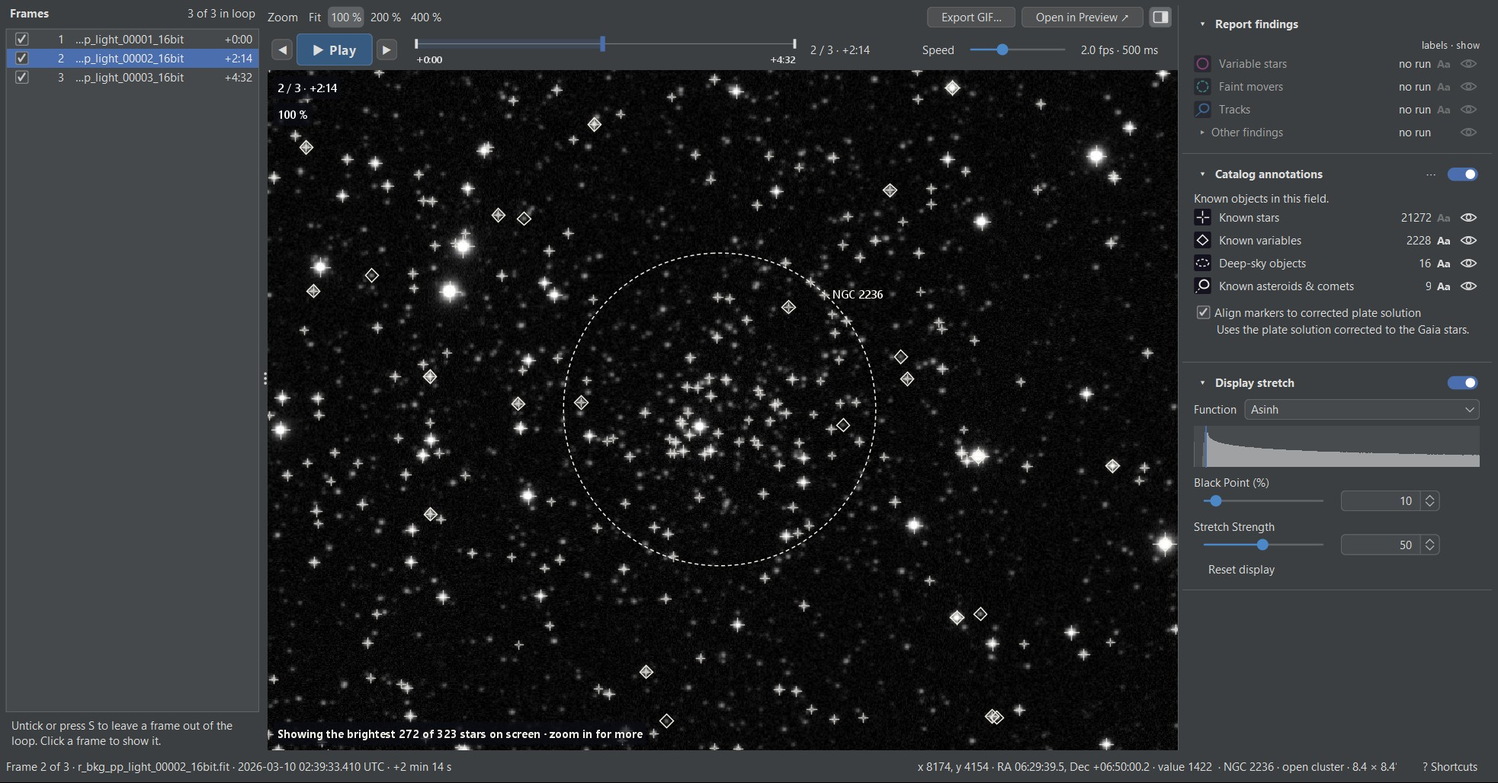
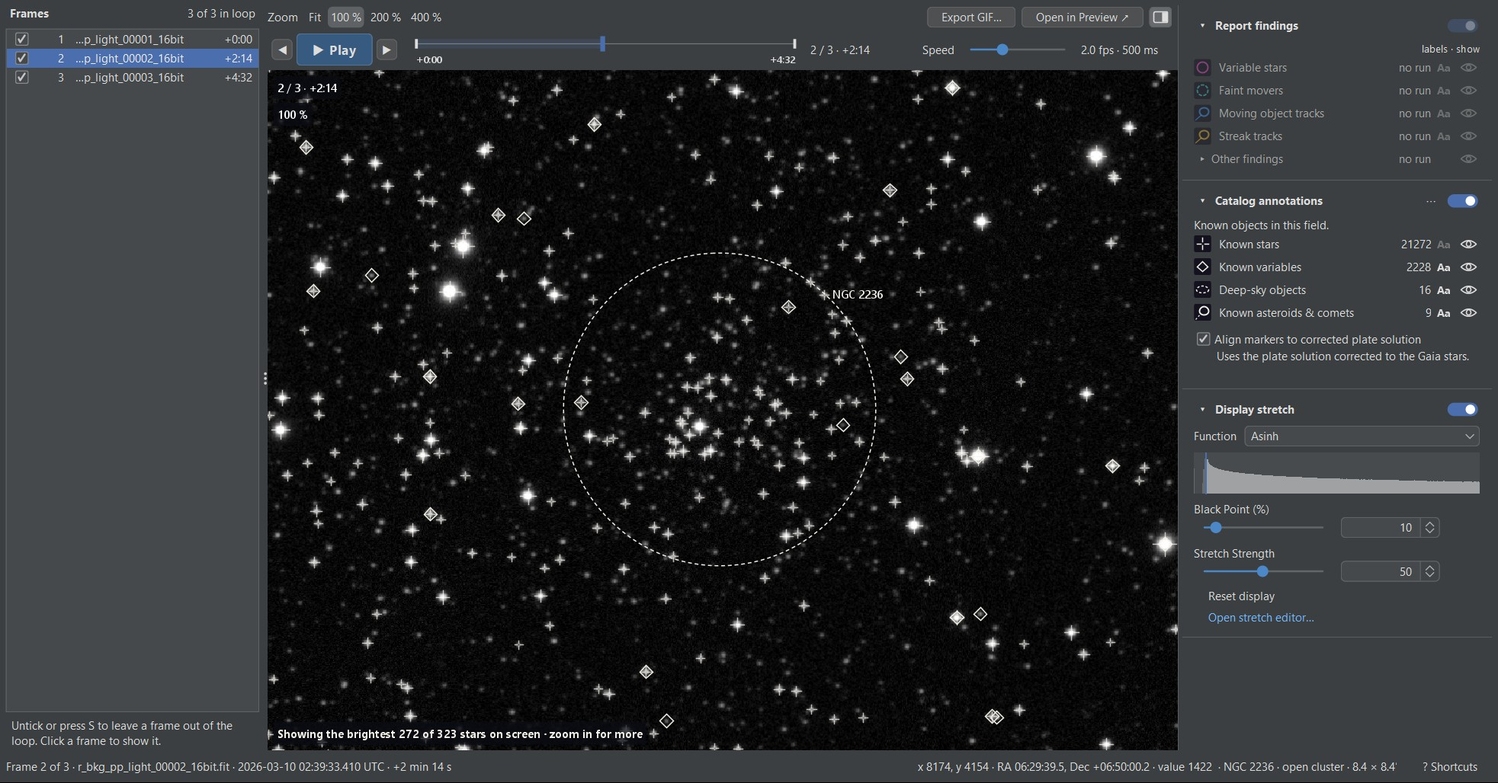
Update docs

Changed region(s): [[0.7761, 0.0, 0.9934, 0.8093]]

diff --git a/MANUAL.md b/MANUAL.md
@@ -241,7 +241,7 @@ If a run finds a very large number of objects, a summary first lists them by kin
 
 ---
 
-After detection, return to **Blink Selected** to check the findings against the actual frame pixels: the side panel's **Report findings** shows the last run's tracks (T), variable candidates (V) and other findings. In **Preview Frame**, **Raw detections** (D) overlays point sources and streaks extracted with the current per-frame settings, and the side panel adds the last full run's findings. **Manual Transient Inspection** shows the run's tracks (T) too. Zoom to 100 % or more to inspect the detected pixels; use the eye switches to compare with the unmarked image. These last-run overlays are available in the current session after a run; importing a folder again does not reconstruct them from its saved report.
+After detection, return to **Blink Selected** to check the findings against the actual frame pixels: the side panel's **Report findings** shows the last run's moving object tracks (T), streak tracks (Shift+T), variable candidates (V) and other findings. In **Preview Frame**, **Raw detections** (D) overlays point sources and streaks extracted with the current per-frame settings, and the side panel adds the last full run's findings. **Manual Transient Inspection** shows the run's findings too. Zoom to 100 % or more to inspect the detected pixels; use the eye switches to compare with the unmarked image. These last-run overlays are available in the current session after a run; importing a folder again does not reconstruct them from its saved report.
 
 ## 4. Reading the report
 
@@ -639,19 +639,19 @@ Select three or more frames in the table and click **Blink Selected** to play th
 - **Zoom**, directly above the image: Fit, 100 %, 200 % and 400 %, or scroll to zoom around the cursor and drag to pan. Double-click switches between fit and 100 %. The view stays on the same spot while the frames change.
 - **Open in Preview ↗** pauses the blink and shows the frame in Preview Frame, to try the detection on it. Both windows stay open: **Blink ↗** in Preview Frame comes back on the frame it shows, without reading the frames again, and plays again if the blink was playing.
 - **The frame list** on the left shows every frame with its time since the first one, and how many are in the loop; the frame on screen is highlighted. Where the interval to the previous frame is more than 1.5 times the usual one, a band says how long the gap was, for example *5 min 17 s gap*. Click a frame to pause and show it. While paused, untick a frame, or press S, to leave a cloudy or trailed frame out of the loop; it is greyed and struck through, and stepping passes over it, but clicking it still shows it. While playing, the ticks are greyed out: pause first, so you change the frame you meant. At least two frames stay in the loop.
-- **Tracks** (T, side panel) draws the latest run's or restored report's tracks, named as in the report (T1, T2… for moving objects, ST1… for streak tracks), with a ring at each measured position in the frame shown. Available findings are shown by default.
+- **Moving object tracks** (T, side panel) and **Streak tracks** (Shift+T) draw the latest run's or restored report's tracks, named as in the report (T1, T2… and ST1, ST2…): a faint line through the whole track, with a ring at the measured position in the frame shown. Available findings are shown by default.
 - **Variable stars** (V, side panel) marks the variable-star candidates from the last **Detect Moving Targets** run with photometry enabled. Magenta rings and V1, V2… follow the report's numbering; solid rings mean high confidence and dashed rings mean possible. Names from the saved VSX catalogue are added when matched. Hover for the name, confidence and measured variation. This overlay also works without a plate solution or sky catalogue, using the measured star positions.
 - **Catalog annotations** (A, side panel) labels the stars, deep-sky objects and variable stars of the field, once the sky catalogue is fetched, and the known asteroids and comets where they are at each frame's time, once those are fetched. **Align markers to corrected plate solution** (C) aligns them, and all coordinates, with the stars (see [Annotate](#annotate-stars-deep-sky-objects-and-variable-stars) and [Known asteroids and comets](#known-asteroids-and-comets)).
 
-**The side panel.** Blink, Preview Frame, Manual Transient Inspection and Show full size have a panel on the right with what is drawn on the frame. Drag its left edge to make it wider, or hide it with the panel button at the end of the toolbar; both are remembered. Its sections fold with the arrow beside their titles:
+**The side panel.** Blink, Preview Frame and Manual Transient Inspection have a panel on the right with what is drawn on the frame. Drag its left edge to make it wider, or hide it with the panel button at the end of the toolbar; both are remembered. Its sections fold with the arrow beside their titles:
 
-- **Report findings**: the latest run's or restored report's findings, one row per layer with its count. **Variable stars** (V), **Faint movers** and **Tracks** (T) have their own rows; **Other findings** unfolds into single streaks and anomalies (S, A), slow-mover candidates (DS), local rescue and activity (LR, LC), and camera-fixed and common-motion groups (FC, CM). The eye shows or hides a layer, and **Aa** its labels; hiding Other findings hides all its rows, which keep their own choices. A row that has nothing to show says why, for example *none in report*.
-- **Catalog annotations** (A): the known objects of the field, once fetched. The switch in the header shows them; the rows choose **Known stars**, **Known variables**, **Deep-sky objects** and **Known asteroids & comets**, each with its count on the frame shown. The **⋯** menu holds **Faintest magnitude…**. **Align markers to corrected plate solution** (C) is here too.
+- **Report findings** (R): the latest run's or restored report's findings, one row per layer with its count. The switch in the header shows or hides them all. **Variable stars** (V), **Faint movers**, **Moving object tracks** (T) and **Streak tracks** (Shift+T) have their own rows; **Other findings** unfolds into single streaks and anomalies (S, A), slow-mover candidates (DS), local rescue and activity (LR, LC), and camera-fixed and common-motion groups (FC, CM). The eye shows or hides a layer, and **Aa** its labels; while Other findings is hidden, its rows are disabled and keep their own choices. A row that has nothing to show says why, for example *none in report*.
+- **Catalog annotations** (A): the known objects of the field, once fetched. The switch in the header shows them, and while it is off the rest of the section is disabled; the rows choose **Known stars**, **Known variables**, **Deep-sky objects** and **Known asteroids & comets**, each with its count on the frame shown. The **⋯** menu holds **Faintest magnitude…**. **Align markers to corrected plate solution** (C) is here too.
 - **Display stretch**: the switch, the function and its two parameters, each with a slider and a number field, shared with the Image Stretch editor. **Reset display** returns the parameters to the function's defaults. A small histogram shows the pixel values of the frame shown: the values the stretch shows as black are drawn darker, and an accent line marks the black point, so you can see how much of the sky is clipped. **Open stretch editor…** opens the [full comparison workspace](#image-stretch) on the frame currently shown, leaving the viewer open.
 
 The swatch beside each row looks like the marks it draws. Findings keep the colours of their report categories; everything already in a catalogue is drawn in off-white, so a white diamond inside a magenta ring reads as a detected variable that is already catalogued. The choices are shared by all viewers, so a layer hidden in Preview Frame is hidden in Blink too, and they are remembered.
 
-Import restores findings from the newest compatible completed report, including individual iterative passes. Blink and Preview Frame show its tracks, variable stars, faint-mover fits and **Other findings** by default. The latter includes single-frame streaks/anomalies, slow-mover references, local rescue/activity and artifact groups, using the report's labels and colours. Measured markers appear only in their measured frames. Dashed squares labelled **ref** are stack or report reference positions, not per-frame detections. New reports store frame identities and full measured positions; older reports may only supply reference markers for tracks and omit variable-star hover details. The status names the restored report. Missing or incompatible report data does not prevent importing images. Restoring these layers does not rerun the full detection.
+Import restores findings from the newest compatible completed report, including individual iterative passes. Blink and Preview Frame show its tracks, variable stars, faint-mover fits and **Other findings** by default. The latter includes single-frame streaks/anomalies, slow-mover references, local rescue/activity and artifact groups, using the report's labels and colours. Every finding with measured positions shows on every frame: vivid where it was measured in the frame shown, and faint in the other frames, where hovering over it names the frame of the session it was measured in. Variable-star candidates are vivid on every frame, since the star is in all of them, and a faint-mover candidate has a vivid ring on each searched frame. Dashed squares labelled **ref** are stack or report reference positions, not per-frame detections, and look the same on every frame. New reports store frame identities and full measured positions; older reports may only supply reference markers for tracks and omit variable-star hover details. The status names the restored report. Missing or incompatible report data does not prevent importing images. Restoring these layers does not rerun the full detection.
 
 ![Selecting a Blink GIF region around comet Africano](docs/images/manual/ui-blink-gif.png)
 
@@ -667,13 +667,14 @@ Runs the source detection on the selected frame with the current settings and sh
 
 To try the per-frame settings on the frame itself, use **Detection Sigma**, **Grow Sigma (Hysteresis)** and **Min Detection Pixels** under **Trial parameters** in the side panel's **Raw detections** section:
 - Click the arrows, or click into a field, type a value and press Enter; Esc discards a typed value. Enter, Esc or a click on the frame gives the keys back to the window.
-- The frame is detected again a moment after the change, and the detections are switched on.
+- The frame is detected again a moment after the change.
+- While the **Raw detections** switch (D) is off, the section is folded and these controls are disabled; they keep their values for when it is on again.
 - These are trial values. A field that differs from the saved Detection Settings has an amber outline and shows the saved value under it, and the section's header says **Not saved**. **Save to settings** copies only the fields you edited to Detection Settings; changes made elsewhere to other fields are kept. Saved changes are unsaved on the Detection Settings tab until you use **Save** there. The usual rules keep paired thresholds in order.
 - **Revert** returns to the saved values. Closing discards unsaved trials; reopening starts with the current Detection Settings.
 - Text that is not a valid value is outlined in red, a note says what to enter, and the frame keeps the last valid value.
 - While a job runs, the fields, Revert and Save to settings are locked, like the Detection Settings tab. An open Blink window does not lock them.
 
-After a full detection, the side panel's **Tracks** (T) draws that run's tracks as Blink does, and with variable-star photometry **Variable stars** (V) draws its candidates, with the same labels and hover details as Blink. They are the positions that run measured: changing the single-frame preview settings does not change them, and showing them detects nothing again. Run the full detection again to update them. A run that ends while Preview Frame is open makes its tracks available there at once.
+After a full detection, the side panel's **Moving object tracks** (T) and **Streak tracks** (Shift+T) draw that run's tracks as Blink does, and with variable-star photometry **Variable stars** (V) draws its candidates, with the same labels and hover details as Blink. They are the positions that run measured: changing the single-frame preview settings does not change them, and showing them detects nothing again. Run the full detection again to update them. A run that ends while Preview Frame is open makes its tracks available there at once.
 
 Preview Frame shows the normal detection only; the faint-streak search runs in Detect Moving Targets.
 
@@ -681,11 +682,11 @@ Preview Frame shows the normal detection only; the faint-streak search runs in D
 
 ![Manual Transient Inspection with trial thresholds in the side panel and the captured master-mask settings above the comet frame](docs/images/manual/ui-inspection.png)
 
-Runs the detection on all frames of the session (not only the selected ones) and shows, frame by frame, every detection left after the star mask: the candidates for moving objects, before they are linked into tracks. The three per-frame thresholds can be tried in the side panel's **Raw detections** section without rebuilding the master mask; only the frame on show is re-detected, and **Save to settings** copies the edited values. Edits to other per-frame extraction and filtering settings take effect when a frame is shown again. If the master settings change while the window is open, it says so and keeps the reference, including its jitter radius, until you reopen it. Useful to judge the noise, or to find a faint object by eye that did not form a track. Above, at 200 %, the comet is outlined using the current trial settings. The frames stay in memory until you close the window. After a full detection on the session, the side panel's **Tracks** (T) draws that run's tracks over these frames, as in Blink.
+Runs the detection on all frames of the session (not only the selected ones) and shows, frame by frame, every detection left after the star mask: the candidates for moving objects, before they are linked into tracks. The three per-frame thresholds can be tried in the side panel's **Raw detections** section without rebuilding the master mask; only the frame on show is re-detected, and **Save to settings** copies the edited values. Edits to other per-frame extraction and filtering settings take effect when a frame is shown again. If the master settings change while the window is open, it says so and keeps the reference, including its jitter radius, until you reopen it. Useful to judge the noise, or to find a faint object by eye that did not form a track. Above, at 200 %, the comet is outlined using the current trial settings. The frames stay in memory until you close the window. After a full detection on the session, or when its report is restored, the side panel's **Report findings** shows that run's findings over these frames, as in Preview Frame and Blink.
 
 Manual Transient Inspection uses the normal detection only; the faint-streak search runs in Detect Moving Targets.
 
-Both windows, and **Show full size** in the Image Stretch editor, work like the blink window: the same stretch as the Image Stretch editor, the same zoom (Fit, 100 %, 200 %, 400 %, scroll to zoom, drag to pan, double-click), and the same one-line status bar: the frame and its time since the first frame on the left, and on the right, under the cursor, the pixel position, on a plate-solved frame RA and Dec, and the value. The **Raw detections** switch (D) hides the markers to see the frame underneath. From 100 % zoom the detected pixels are tinted too. When there are too many detections on screen to tell apart, the markers are left out until you zoom in. Esc closes the window.
+Both windows work like the blink window: the same stretch as the Image Stretch editor, the same zoom (Fit, 100 %, 200 %, 400 %, scroll to zoom, drag to pan, double-click), and the same one-line status bar: the frame and its time since the first frame on the left, and on the right, under the cursor, the pixel position, on a plate-solved frame RA and Dec, and the value. The **Raw detections** switch (D) hides the markers to see the frame underneath. From 100 % zoom the detected pixels are tinted too. When there are too many detections on screen to tell apart, the markers are left out until you zoom in. Esc closes the window.
 
 ### Annotate: stars, deep-sky objects and variable stars
 
@@ -704,7 +705,7 @@ The detection report uses the catalogue too, when it was fetched before **Detect
 
 The fetch runs in the background, so you can keep working. The status bar shows each step and how long it has taken. The stars take longest, about 20 to 30 seconds for a 4° × 3° field to magnitude 15; each magnitude deeper roughly doubles the stars and the wait. Meanwhile the button reads **Cancel Sky Catalogue**. The catalogue is saved next to the frames as `sky_catalogue.json` and comes back by itself when you import the folder again. Click the button again to fetch a fresh one, for example after changing the star depth. The **2 Astrometry** status shows what is loaded; its tooltip gives the details, and says why if a service did not answer (what did arrive is kept).
 
-In every viewer (Blink, Preview Frame, Manual Transient Inspection and Show full size), **Catalog annotations** (A) in the side panel draws the catalogue on the frame, all in off-white: crosses for stars (larger for brighter stars), diamonds for variable stars and dashed outlines for deep-sky objects, with their size and orientation. Its rows choose which of these are shown, and whether the asteroids and comets are (see [Known asteroids and comets](#known-asteroids-and-comets)). The status bar and a tooltip beside the pointer name the object under the cursor, even when its label is hidden to reduce clutter: above *NGC 2236 · open cluster · 8.4 × 8.4′*, or for a variable star for example *V0623 Mon · LB · 13.30–14.60 V*. When there are too many marks on screen to tell apart, only the brightest stars and variables and the largest deep-sky objects are drawn, and a note says so: zoom in to see more. Names and magnitudes are written next to the marks once few enough are on screen; the long survey names of many variables (such as *Gaia DR3 3131…*) only when you zoom further in.
+In every viewer (Blink, Preview Frame and Manual Transient Inspection), **Catalog annotations** (A) in the side panel draws the catalogue on the frame, all in off-white: crosses for stars (larger for brighter stars), diamonds for variable stars and dashed outlines for deep-sky objects, with their size and orientation. Its rows choose which of these are shown, and whether the asteroids and comets are (see [Known asteroids and comets](#known-asteroids-and-comets)). The status bar and a tooltip beside the pointer name the object under the cursor, even when its label is hidden to reduce clutter: above *NGC 2236 · open cluster · 8.4 × 8.4′*, or for a variable star for example *V0623 Mon · LB · 13.30–14.60 V*. When there are too many marks on screen to tell apart, only the brightest stars and variables and the largest deep-sky objects are drawn, and a note says so: zoom in to see more. Names and magnitudes are written next to the marks once few enough are on screen; the long survey names of many variables (such as *Gaia DR3 3131…*) only when you zoom further in.
 
 Each row's **Aa** hides or shows its names and magnitudes while keeping the markers and hover identification; star labels are off by default. **Faintest magnitude…** in the section's **⋯** menu independently limits stars (Gaia G, or V for named stars) and catalogued variables (their maximum brightness in the catalogue's band). Smaller numbers show only brighter objects; 99 means no limit. Unknown magnitudes and deep-sky objects remain visible. The limits are remembered for subsequently opened viewers; viewers already open keep their own limits. Density thinning still applies. The controls affect only the viewer, not catalogue downloads, measured variable candidates, detection or exported reports.
 
@@ -768,7 +769,7 @@ When a field has few bright stars, SpacePixels fetches fainter Gaia stars for th
 
 Open **Image Stretch…** under **3 Inspect**, or **Open stretch editor…** in a viewer's **Display stretch** section. The editor is a separate resizable window that stays open alongside the viewers. A viewer opens it on the frame currently shown; Main opens it on the selected frame, or the first frame when none is selected. Opening it again brings the same editor forward. Previous/Next navigates the editor without changing the Main table selection or Auto-Tune's frame pool.
 
-The editor compares the original linear frame and the stretched image, with linked zoom/pan, histograms and clipping percentages. The function, parameter sliders and numeric fields change the display immediately in Blink, Preview Frame, Manual Transient Inspection and **Show full size**. Changes in those viewers update the editor too. **Reset to Defaults** restores the selected function's parameters; **Close** or **Esc** keeps your stretch settings and releases the editor's preview images. Importing a different session closes the editor. Detection always uses the original linear data; report images retain their separate stretch under Detection Settings → Report Visualization.
+The editor compares the original linear frame and the stretched image, with linked zoom/pan, histograms and clipping percentages. The function, parameter sliders and numeric fields change the display immediately in Blink, Preview Frame and Manual Transient Inspection. Changes in those viewers update the editor too. **Reset to Defaults** restores the selected function's parameters; closing the window or **Esc** keeps your stretch settings and releases the editor's preview images. Importing a different session closes the editor. Detection always uses the original linear data; report images retain their separate stretch under Detection Settings → Report Visualization.
 
 **Stretch display** switches between the selected stretch and a linear view. Unticking it disables the function and parameters without resetting them; ticking it restores the same stretch. The shared settings are remembered between sessions. Minimum parameter values still apply the selected algorithm; the checkbox provides the linear view. With stretch off, both editor previews show the linear image.
 
@@ -780,9 +781,7 @@ The editor compares the original linear frame and the stretched image, with link
 
 The editor previews its own current frame with the shared stretch. While it is being drawn, the line above it ends in *rendering…*; it always shows the last frame and stretch you chose, however quickly you change them.
 
-![Show full size](docs/images/manual/ui-fullsize.jpg)
-
-**Show full size** opens the frames of the session at full resolution, starting at the editor's current frame, in a window that works like the other viewers: ← → to step, the same zoom and stretch, and the pixel value and RA/Dec under the cursor. Colour frames show in colour, and the status bar gives the frame size.
+**Show in Preview** shows the editor's current frame in [Preview Frame](#preview-frame), at full resolution and with the same stretch; the editor stays open, and a Preview Frame already open keeps its zoom. Colour frames show in colour there, without raw detections, because the detection needs 16-bit monochrome frames.
 
 ### Detect Iteratively (large datasets)
 

diff --git a/HIGH_LEVEL_DESIGN.md b/HIGH_LEVEL_DESIGN.md
@@ -204,7 +204,7 @@ Main tasks:
 - `AutoTuneTask`
 - `StarMaskStackTask`
 - `WriteWcsTask`
-- `GeneratePreviewsTask`, which renders the Image Stretch previews of one frame and returns them to `StretchPreviewRenderer`; full-size sequence viewers load frames through `SequenceViewerFrame` and `BlinkSequence`
+- `GeneratePreviewsTask`, which renders the Image Stretch previews of one frame and returns them to `StretchPreviewRenderer`; the sequence viewers load frames through `SequenceViewerFrame` and `BlinkSequence`
 
 ### `eu.startales.spacepixels.tools`
 
@@ -684,9 +684,9 @@ MainApplicationPanel
 -> TransientInspectionFrame
 ```
 
-**The last run's tracks.** Blink, Preview Frame and Manual Transient Inspection draw the tracks of the session's last Detect Moving Targets run from the same `TrackOverlay` (`ProcessingSession.getTrackOverlay()`). The run hands it over when the engine returns, and the window stores it in the session when the job ends, whatever became of the report (see the jobs section). `SequenceViewerFrame.setTrackOverlay` gives the sequence viewers Blink's **Tracks** row (T) in the side panel's `FindingsSection`: it is disabled with a reason when no track of that run is in the window's frames, and `FrameView` draws the positions the run measured, by file name. Nothing is detected again, and changed settings do not change the overlay. Preview Frame takes the overlays when it opens and again when a run's overlays reach the session (`DetectionSequenceFrame.showLastRun`, from `MainApplicationPanel.showDetectionOverlays`), so a run that ends while it is open shows its tracks. Closing a viewer clears the frame view, which drops the overlay; the overlay itself holds no listeners.
+**The last run's tracks.** Blink, Preview Frame and Manual Transient Inspection draw the tracks of the session's last Detect Moving Targets run from the same `TrackOverlay` (`ProcessingSession.getTrackOverlay()`). The run hands it over when the engine returns, and the window stores it in the session when the job ends, whatever became of the report (see the jobs section). `SequenceViewerFrame.setTrackOverlay` gives the sequence viewers Blink's **Moving object tracks** (T) and **Streak tracks** (Shift+T) rows in the side panel's `FindingsSection`: each is disabled with a reason when no track of its kind in that run is in the window's frames, and `FrameView` draws the positions the run measured, by file name. Nothing is detected again, and changed settings do not change the overlay. Preview Frame and Manual Transient Inspection take all the overlays when they open and again when a run's overlays reach the session (`SequenceViewerFrame.setLastRun`, from `MainApplicationPanel.showDetectionOverlays`), so a run that ends while one is open shows its findings. Closing a viewer clears the frame view, which drops the overlay; the overlay itself holds no listeners.
 
-**Viewer layers.** Which overlay layers are drawn and labelled is one `ViewerLayerState`, owned by the application's `ViewerRegistry`, passed to each viewer it creates and saved under `gui/viewerLayers`. Each viewer keeps its own listener (the state holds listeners weakly) and hands `FrameView` an immutable `ViewerLayerState.Snapshot`, which exports copy. `ViewerLayer` lists the layers; Other findings and Catalog annotations are groups whose children draw only while the group is on. `OverlayStyle` holds the colours, strokes and shapes, used both by `FrameView` and by the swatches of the side panel's `LayerRow`s. Findings use their `FindingCategory` colours, catalogue marks one off-white. The side panel (`ViewerSidePanel`) holds `FindingsSection`, the Catalog annotations section of `SkyAnnotations` and the Display stretch section of `StretchControls`; the Catalog annotations switch decides whether `SkyAnnotations` hands the view any marks.
+**Viewer layers.** Which overlay layers are drawn and labelled is one `ViewerLayerState`, owned by the application's `ViewerRegistry`, passed to each viewer it creates and saved under `gui/viewerLayers`. Each viewer keeps its own listener (the state holds listeners weakly) and hands `FrameView` an immutable `ViewerLayerState.Snapshot`, which exports copy. `ViewerLayer` lists the layers; Report findings and Catalog annotations are groups, with Other findings a group inside Report findings. A child draws, and its switches are enabled, only while every group above it is on (`Snapshot.shows`, `ViewerLayerState.offGroup`); it keeps its own choices meanwhile. `FrameView` draws a finding vivid where it was measured in the frame shown and faint in the other frames of the run. Each finding's faint rings are one shape without those that nearly coincide, so a group measured in almost one place stays one faint ring. References have no frame and look the same on all of them. `OverlayStyle` holds the colours, strokes and shapes, used both by `FrameView` and by the swatches of the side panel's `LayerRow`s. Findings use their `FindingCategory` colours, catalogue marks one off-white. The side panel (`ViewerSidePanel`) holds `FindingsSection`, the Catalog annotations section of `SkyAnnotations` and the Display stretch section of `StretchControls`; the Catalog annotations switch decides whether `SkyAnnotations` hands the view any marks.
 
 ### Report Export Flow
 
@@ -749,7 +749,7 @@ Common-motion filtering has its own switch and runs before local rescue and acti
 
 ### Shared frame viewers
 
-Blink, Preview Frame, Manual Transient Inspection and Show full size share `FrameView`, `StretchControls` and `ViewerSupport`. `SequenceViewerFrame` prepares one frame at a time on a `SwingWorker`, rejects obsolete worker results, and releases listeners on disposal. `BlinkSequence` holds 16-bit frames, histograms and half-size display copies. Stretch controls share their models with the main stretch panel and must detach on disposal. `BlinkGifExport` freezes the included loop, timing, stretch and a private `FrameView` snapshot at admission. Its worker streams cropped frames through staged publication, asking the EDT to render the same viewport and enabled overlays in display-device pixels. Selection guides are a separate mouse layer. Cancellation waits for the encoder to stop; close/reload invalidates later UI delivery. Detection overlays use the last standard-run results, including variable-star positions when available. Preview Frame prepares each frame with `DetectionConfigurationPanel.settingsInUse()`, a copy taken on the EDT just before (`SequenceViewerFrame.preparing`). It takes detached specifications for Detection Sigma, Grow Sigma and Min Detection Pixels (`perFrameDetectionSettings()`), and TrialSettingsControls detects the shown frame again 300 ms after a trial edit. The same controls serve Star Mask Explorer: checked text, Enter/Escape, Reset and selective Apply. Apply uses current settings and normal pair rules, and changes no saved baseline. Trial pair alignment does not mark untouched fields edited. ViewerRegistry pauses every trial window during application jobs; closing stops delayed work and reopening Preview Frame reloads current values. Window keys bound through `ViewerSupport.bind` do not fire while a text field has the focus.
+Blink, Preview Frame and Manual Transient Inspection share `FrameView`, `StretchControls` and `ViewerSupport`. `SequenceViewerFrame` prepares one frame at a time on a `SwingWorker`, rejects obsolete worker results, and releases listeners on disposal. `BlinkSequence` holds 16-bit frames, histograms and half-size display copies. Stretch controls share their models with the main stretch panel and must detach on disposal. `BlinkGifExport` freezes the included loop, timing, stretch and a private `FrameView` snapshot at admission. Its worker streams cropped frames through staged publication, asking the EDT to render the same viewport and enabled overlays in display-device pixels. Selection guides are a separate mouse layer. Cancellation waits for the encoder to stop; close/reload invalidates later UI delivery. Detection overlays use the last standard-run results, including variable-star positions when available. Preview Frame prepares each frame with `DetectionConfigurationPanel.settingsInUse()`, a copy taken on the EDT just before (`SequenceViewerFrame.preparing`). It takes detached specifications for Detection Sigma, Grow Sigma and Min Detection Pixels (`perFrameDetectionSettings()`), and TrialSettingsControls detects the shown frame again 300 ms after a trial edit. The same controls serve Star Mask Explorer: checked text, Enter/Escape, Reset and selective Apply. Apply uses current settings and normal pair rules, and changes no saved baseline. Trial pair alignment does not mark untouched fields edited. ViewerRegistry pauses every trial window during application jobs; closing stops delayed work and reopening Preview Frame reloads current values. Window keys bound through `ViewerSupport.bind` do not fire while a text field has the focus.
 
 The shared **Stretch display** button model selects stretched or full-range linear display, defaults to on, and is saved as `stretch.enabled` in the existing Java preferences node. Off disables the stretch controls while retaining their values; viewers use `DisplayStretch.linearLookupTable`, preserving RGB channels even when Extreme is selected. Preview requests capture this flag so obsolete stretched results cannot replace a newer linear request. The secondary **Export stretched copies…** action in the editor confirms the chosen algorithm/parameters, frame count and destination independently of the display flag, then writes the whole dataset to `_stretched`. It needs an imported idle session, with no separate enable flag. **Convert to Mono** writes only linear `_mono` copies and has no stretch parameters or automatic stretch operation.
 

diff --git a/RELEASE_NOTES.md b/RELEASE_NOTES.md
@@ -62,6 +62,10 @@
 - **Main window redesign.** The four steps have number badges with their status directly under the heading, so their buttons line up, and **2 Astrometry** and **3 Inspect** say they are optional. An empty window shows a drop zone that explains the supported inputs, with **Choose Folder…**, **Prepare Raw Frames…** and a link to the manual's workflow. One action is highlighted as the next step: choosing a folder, **Convert to Mono**, **Detect Moving Targets**, or **Open last report** after a run that wrote a report, until the settings change. The settings box labels **Sigma**, **Grow** and **Min px**. **Auto-Tune Settings** now sits over that box and the report links under the Detect buttons, so the steps are shorter and the table no longer moves when a report appears. The frame list gains a **#** column with the frame numbers of the viewers and reports, and its toolbar counts the frames, the kept and rejected frames and the selection, says **QC stale**, warns when too few frames would remain, and offers **Clear selection**. The button captions name what they act on, such as **Preview Frame 3**, **Blink Selected (5)** and **Plate Solve Frame 3**. **User Manual**, **Tips** and **Acknowledgements** move into a **Help** menu at the right end of the tab bar. The note on the Auto-Tune settings shows a saved run's date once and no longer loses the end of its lines. Detection, frame selection and results are unchanged.
 - **Tips.** A **Did you know?** screen opens when SpacePixels starts, with a new tip each time and a link to the manual, and stays available from the **Help** menu. It does not block the main window, and **Show tips at startup** switches it off.
 - **Blink's controls above the image.** The zoom, **Export GIF…**, **Open in Preview ↗**, the panel button and the transport bar now sit directly above the image, so the frame list and the side panel reach the top of the window.
+- **Findings show on every frame.** In the viewers, every report finding with measured positions now shows on all frames: faint where it was measured in another frame, vivid in the frame it was measured in, as tracks already did. Single-frame streaks and anomalies can therefore be found from any frame, and hovering over a faint mark names its frame. Manual Transient Inspection now shows all the findings too, not only the tracks.
+- **Report findings switch.** The Report findings section gets a switch in its header (key R), like Raw detections and Catalog annotations. In all three, and under Other findings, switching a group off now disables the controls under it; they keep their choices for when it is on again. Trial values no longer switch the raw detections on, since the fields are disabled while they are off.
+- **Moving object and streak tracks are separate.** The Tracks row becomes **Moving object tracks** (key T) and **Streak tracks** (Shift+T), with their own counts and switches.
+- **Show in Preview replaces Show full size.** The Image Stretch editor's **Show in Preview** shows its frame in Preview Frame, and the separate full-size window is gone. Preview Frame now shows colour frames, in colour and without raw detections. The editor also loses its **Close** button: close its window or press Esc.
 - **Double-click a frame.** Double-clicking a frame in the main window's list shows it in Preview Frame.
 - **Satellite comparison follows your frames.** The overlay of **Compare track with satellites** now lies as the frames do, using the plate solution captured at the track, with a north/east compass and a note when the frames are mirrored compared with how the sky looks by eye, as some optics do. Distances and rankings are unchanged. Each streak observation in `report-data.json` gains an additive `astrometry.imageAxes`; reports without it keep the north-up overlay.
 - **Streak cards read like the others.** The text and lookup tables in a report's streak cards are no longer all orange; the card's coloured edge still marks it.
@@ -72,7 +76,7 @@
 
 - **Night & Equipment optics readings (#27, #28).** Tooltips explicitly identify each region's measured stretch or light-to-core offset. Captions distinguish local maxima from shared or fitted field-wide components, and an uncertain radial coma fit is labelled unresolved. Small overall components no longer imply that every region is undistorted. Measurements and detection results are unchanged.
 
-- **Viewer side panel (F29, first part).** Blink, Preview Frame, Manual Transient Inspection and Show full size move their layer switches, catalogue annotations and display stretch into a side panel on the right. Each layer has a row with a swatch matching its marks, its count, a label switch (**Aa**) and an eye; a layer without anything to show says why. Other findings unfold into the report's categories. Catalogue objects are drawn in off-white and findings in their report colours. The choices are shared by all viewers and remembered; the panel can be resized and hidden. In Blink, ↑ and ↓ step through the frames while paused and still change the speed while playing.
+- **Viewer side panel (F29, first part).** Blink, Preview Frame and Manual Transient Inspection move their layer switches, catalogue annotations and display stretch into a side panel on the right. Each layer has a row with a swatch matching its marks, its count, a label switch (**Aa**) and an eye; a layer without anything to show says why. Other findings unfold into the report's categories. Catalogue objects are drawn in off-white and findings in their report colours. The choices are shared by all viewers and remembered; the panel can be resized and hidden. In Blink, ↑ and ↓ step through the frames while paused and still change the speed while playing.
 - **Preview Frame toolbar and Raw detections (F29, second part).** One toolbar row: frame stepper with a number field (Enter jumps), one Fit/100/200/400 % zoom group, **Blink ↗** and the panel button. The trial thresholds move into the side panel's **Raw detections** section with its switch (D) and the frame's counts; a changed field has an amber outline and its saved value underneath, and the header says **Not saved**. **Reset** becomes **Revert** (back to the saved values) and **Apply to Settings** becomes **Save to settings**, enabled only when something differs; Manual Transient Inspection and Test Star Mask use the same names. **Blink ↗** blinks the selected frames, or all frames when fewer than three are selected, from the frame shown; Blink's **Open in Preview ↗** pauses the blink and shows that frame in Preview. Both windows stay open, and **Blink ↗** comes back to an open blink without reading its frames again. Tracks from older reports, which saved only one reference position per track, now appear under **Tracks** as dashed **ref** squares instead of among the other findings; reports written now restore full tracks.
 - **Blink transport bar and Export GIF (F29, third part).** Play/Pause and stepping move to a bar above the image, with a timeline that places the frames by capture time (hollow ticks for frames left out, gap labels, click to jump), the frame's place (also tagged on the image) and the speed in frames per second, now from 0.5 to 30. Stepping passes over the frames left out of the loop. The frame list shows a band at each gap in the capture times (an interval over 1.5 times the median) and strikes through the frames left out; **Skip this frame** is gone (untick the frame or press S). **Select GIF region** becomes an **Export GIF…** mode that dims the image outside the selection, with **Cancel (Esc)** and **Export GIF** over the image. With the frame list, the image and the side panel side by side, the Blink window is at least 1000 × 520 (scaled with the interface); when it is narrow, the speed moves to a second line of the transport bar.
 - **Viewer status bar and shortcuts (F29, fourth part).** The viewers' status bar is one line: the frame on the left; the cursor's pixel position, RA and Dec on a plate-solved frame, and value on the right. The two-line key footer is replaced by **? Shortcuts** (also the **?** key), which lists each window's keys and mouse actions, and by the keys named in the controls' tooltips.

diff --git a/DEVELOPER.md b/DEVELOPER.md
@@ -264,7 +264,7 @@ After a successful appearance save, the user can choose Restart now or Later. `A
 
 `StretchEditorWindow` hosts the one shared `StretchPanel` outside the main tabs, reusing the window from Main or viewer links. Its independent frame cursor leaves the Main selection unchanged. Closing it releases previews; the viewer registry disposes it on a session change or shutdown.
 
-Preview Frame (`DetectionSequenceFrame`), Manual Transient Inspection (`TransientInspectionFrame`) and Show full size (`StretchedSequenceFrame`) extend `SequenceViewerFrame`. Each prepares one frame at a time in `prepare(...)` on a `SwingWorker`, and the newest request wins. Blink (`BlinkFrame`) is built from the same parts: `FrameView` draws, `StretchControls` shares the stretch models owned by `StretchPanel`, `ViewerSupport` provides the keys and status bar, and `SkyAnnotations` draws catalogue labels and the predicted asteroids and comets (placed per frame, at the middle of its exposure). Blink, Preview Frame and Manual Transient Inspection can show the last run's tracks (T) from the session's `TrackOverlay`. Manual Transient Inspection keeps the master reference from its first pass and re-detects only the frame on show when its trial per-frame settings change.
+Preview Frame (`DetectionSequenceFrame`) and Manual Transient Inspection (`TransientInspectionFrame`) extend `SequenceViewerFrame`. The stretch editor's Show in Preview uses Preview Frame, which shows a frame the detection cannot read, such as a colour frame, without raw detections. Each prepares one frame at a time in `prepare(...)` on a `SwingWorker`, and the newest request wins. Blink (`BlinkFrame`) is built from the same parts: `FrameView` draws, `StretchControls` shares the stretch models owned by `StretchPanel`, `ViewerSupport` provides the keys and status bar, and `SkyAnnotations` draws catalogue labels and the predicted asteroids and comets (placed per frame, at the middle of its exposure). Blink, Preview Frame and Manual Transient Inspection can show all the last run's findings from the session's overlays, among them moving object tracks (T) and streak tracks (Shift+T) from its `TrackOverlay`. Manual Transient Inspection keeps the master reference from its first pass and re-detects only the frame on show when its trial per-frame settings change.
 
 `TransientInspectionDetector` owns that window's cache, keyed by the kept frame and a serialized snapshot of the complete `DetectionConfig`. Each cache miss creates and closes its own engine on the preparation worker. Closing the window clears the cache without waiting for computation or closing a running engine; the cancelled worker finishes its engine cleanup. Cache locks cover only lookups and updates, and a late result cannot repopulate a closed cache. Re-detection borrows the original star mask, including its original jitter footprint.
 
